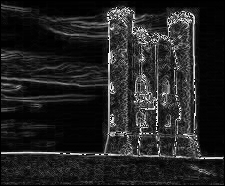
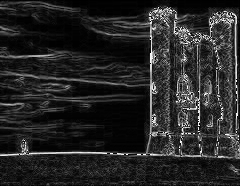
Added more options

diff --git a/src/main.cpp b/src/main.cpp
@@ -15,10 +15,6 @@
 #define STB_IMAGE_IMPLEMENTATION
 #include "../libs/stb_image.h"
 
-// This example can also compile and run with Emscripten! See 'Makefile.emscripten' for details.
-#ifdef __EMSCRIPTEN__
-#include "../libs/emscripten/emscripten_mainloop_stub.h"
-#endif
 #include "seamCarving.h"
 
 
@@ -57,6 +53,29 @@ bool LoadTextureFromFile(const char* filename, GLuint* out_texture, int* out_wid
     *out_texture = image_texture;
     *out_width = image_width;
     *out_height = image_height;
+
+    return true;
+}
+
+bool LoadTexture(const unsigned char* image_data, GLuint* out_texture, int image_width, int image_height) {
+    // Create a OpenGL texture identifier
+    GLuint image_texture;
+    glGenTextures(1, &image_texture);
+    glBindTexture(GL_TEXTURE_2D, image_texture);
+
+    // Setup filtering parameters for display
+    glTexParameteri(GL_TEXTURE_2D, GL_TEXTURE_MIN_FILTER, GL_LINEAR);
+    glTexParameteri(GL_TEXTURE_2D, GL_TEXTURE_MAG_FILTER, GL_LINEAR);
+    glTexParameteri(GL_TEXTURE_2D, GL_TEXTURE_WRAP_S, GL_CLAMP_TO_EDGE); // This is required on WebGL for non power-of-two textures
+    glTexParameteri(GL_TEXTURE_2D, GL_TEXTURE_WRAP_T, GL_CLAMP_TO_EDGE); // Same
+
+    // Upload pixels into texture
+#if defined(GL_UNPACK_ROW_LENGTH) && !defined(__EMSCRIPTEN__)
+    glPixelStorei(GL_UNPACK_ROW_LENGTH, 0);
+#endif
+    glTexImage2D(GL_TEXTURE_2D, 0, GL_RGBA, image_width, image_height, 0, GL_RGBA, GL_UNSIGNED_BYTE, image_data);
+
+    *out_texture = image_texture;
 
     return true;
 }
@@ -107,7 +126,7 @@ int main(int, char**) {
             WINDOW_SIZE_X, 
             WINDOW_SIZE_Y, 
             SDL_WINDOW_OPENGL | 
-            //SDL_WINDOW_RESIZABLE | 
+            SDL_WINDOW_RESIZABLE | 
             SDL_WINDOW_HIDDEN
             );
     if (window == nullptr)
@@ -136,10 +155,11 @@ int main(int, char**) {
     ImGui_ImplOpenGL3_Init(glsl_version);
 
 
-    ImVec4 clear_color = ImVec4(0.45f, 0.55f, 0.60f, 1.00f);
 
     // Main loop
     bool done = false;
+    bool showEnergy = false;
+    bool currentlyShowingEnergy = false;
     int toCarve = 0;
     int currentlyCarved = -1;
     int my_image_width = 0;
@@ -179,26 +199,56 @@ int main(int, char**) {
                 nullptr,
                 ImGuiWindowFlags_NoTitleBar |
                 ImGuiWindowFlags_NoResize |
-                ImGuiWindowFlags_NoMove
-                );
+                ImGuiWindowFlags_NoInputs |
+                ImGuiWindowFlags_NoMove);
         
+        // Apply padding to the image
+        const float padding = 20.0f;
+        ImGui::PushStyleVar(ImGuiStyleVar_WindowPadding, ImVec2(padding, padding));
         ImGui::Image((void*)(intptr_t)my_image_texture, ImVec2(my_image_width, my_image_height));
+        ImGui::PopStyleVar(); 
 
         ImGui::End();
 
         // Config window
         ImGui::SetNextWindowSize({SETTING_WINDOW_SIZE_X, SETTING_WINDOW_SIZE_Y});
         ImGui::Begin("Config");
+
+        // Apply padding to the config elements
+        ImGui::PushStyleVar(ImGuiStyleVar_WindowPadding, ImVec2(padding, padding));
+
+        ImGui::Text("Image Controls");
+        
+        ImGui::Spacing(); 
+        ImGui::Separator();
+        ImGui::Spacing(); 
+
         ImGui::SliderInt("Number of columns to carve", &toCarve, 0, sc.getCarvedWidth() - 1);
-    
-        if (toCarve != currentlyCarved) {
+        ImGui::Spacing(); 
+
+        ImGui::Checkbox("Show energy", &showEnergy);
+        
+        ImGui::Spacing(); 
+
+        ImGui::Checkbox("Use backward seam search", &sc.useBackwardSearch);
+
+        ImGui::PopStyleVar(); 
+        
+
+        if (toCarve != currentlyCarved or showEnergy != currentlyShowingEnergy) {
             sc.carve(toCarve);
-            // sc.saveEnergyToFile("../images/energy.png");
-            sc.saveCarvedImageToFile("../images/out.png");
-            // load Image
-            bool ret = LoadTextureFromFile("../images/out.png", &my_image_texture, &my_image_width, &my_image_height);
-            IM_ASSERT(ret);
+            if (showEnergy) {
+                sc.saveEnergyToFile("../images/energy.png");
+                bool ret = LoadTextureFromFile("../images/energy.png", &my_image_texture, &my_image_width, &my_image_height);
+                IM_ASSERT(ret);
+            }
+            else {
+                sc.saveCarvedImageToFile("../images/out.png");
+                bool ret = LoadTextureFromFile("../images/out.png", &my_image_texture, &my_image_width, &my_image_height);
+                IM_ASSERT(ret);
+            }
             currentlyCarved = toCarve;
+            currentlyShowingEnergy = showEnergy;
             sc = SeamCarving("../images/castle_orig.png");
         }
         ImGui::End();
@@ -206,14 +256,12 @@ int main(int, char**) {
         // Rendering
         ImGui::Render();
         glViewport(0, 0, (int)io.DisplaySize.x, (int)io.DisplaySize.y);
+        ImVec4 clear_color = ImVec4(0.45f, 0.55f, 0.60f, 1.00f);
         glClearColor(clear_color.x * clear_color.w, clear_color.y * clear_color.w, clear_color.z * clear_color.w, clear_color.w);
         glClear(GL_COLOR_BUFFER_BIT);
         ImGui_ImplOpenGL3_RenderDrawData(ImGui::GetDrawData());
         SDL_GL_SwapWindow(window);
     }
-#ifdef __EMSCRIPTEN__
-    EMSCRIPTEN_MAINLOOP_END;
-#endif
 
     // Cleanup
     ImGui_ImplOpenGL3_Shutdown();

diff --git a/src/seamCarving.cpp b/src/seamCarving.cpp
@@ -8,6 +8,7 @@
 using namespace std;
 
 SeamCarving::SeamCarving(const std::string& filename) {
+    useBackwardSearch = false;
     int channels = 4;
     m_data = stbi_load(filename.c_str(), &m_width, &m_height, NULL, channels);
     if (!m_data) {
@@ -30,26 +31,36 @@ int SeamCarving::getCarvedHeight() const {
 void SeamCarving::carve(int num_seams) {
     for (int i = 0; i < num_seams; ++i) {
         auto energy_map = computeEnergy();
-        auto seam = findSeam(energy_map);
-        removeSeam(seam);
+        if (useBackwardSearch) {
+            auto seam = findBackwardSeam(energy_map);
+            removeSeam(seam);
+        }
+        else {
+            auto seam = findForwardSeam(energy_map);
+            removeSeam(seam);
+        }
     }
 }
 
 bool SeamCarving::saveEnergyToFile(const std::string& filename) {
-	auto energy_map = computeEnergy();
+    auto energy_map = computeEnergy();
 
-	unsigned char* energy = (unsigned char*) malloc(m_width*m_height*4*sizeof(unsigned char));
+    size_t dataSize = m_width * m_height * 4;
+    std::vector<unsigned char> energy(dataSize);
 
-	for (int y = 0; y < m_height; ++y)
-	for (int x = 0; x < m_width; ++x){
-        int idx = (y * m_width + x) * 4;
-		energy[idx+0] = energy_map[y][x];
-		energy[idx+1] = energy_map[y][x];
-		energy[idx+2] = energy_map[y][x];
-		energy[idx+3] = m_data[idx+3];
-	}
+    for (int y = 0; y < m_height; ++y) {
+        for (int x = 0; x < m_width; ++x) {
+            int idx = (y * m_width + x) * 4;
+            unsigned char energyValue = energy_map[y][x];
+            
+            energy[idx]     = energyValue;
+            energy[idx + 1] = energyValue;
+            energy[idx + 2] = energyValue;
+            energy[idx + 3] = m_data[idx + 3];
+        }
+    }
 
-    return stbi_write_png(filename.c_str(), m_width, m_height, 4, energy, m_width * 4);
+    return stbi_write_png(filename.c_str(), m_width, m_height, 4, energy.data(), m_width * 4);
 }
 
 vector<vector<double>> SeamCarving::computeEnergy() const {
@@ -87,7 +98,7 @@ vector<vector<double>> SeamCarving::computeEnergy() const {
     return energy;
 }
 
-vector<vector<int>> SeamCarving::findSeam(const vector<vector<double>>& energy) const {
+vector<vector<int>> SeamCarving::findForwardSeam(const vector<vector<double>>& energy) const {
     vector<vector<double>> dp(m_height, vector<double>(m_width, 0.0));
     vector<vector<int>> dp_idx(m_height, vector<int>(m_width, -1));
 
@@ -144,6 +155,10 @@ vector<vector<int>> SeamCarving::findSeam(const vector<vector<double>>& energy) 
     // }
 
     return seam;
+}
+
+vector<vector<int>> SeamCarving::findBackwardSeam(const vector<vector<double>>& energy) const {
+    cerr << "Not implemented" << endl;
 }
 
 void SeamCarving::removeSeam(const std::vector<std::vector<int>>& seam) {

diff --git a/src/seamCarving.h b/src/seamCarving.h
@@ -17,6 +17,8 @@ public:
     int getCarvedWidth() const;
     int getCarvedHeight() const;
 
+    bool useBackwardSearch;
+
     bool saveEnergyToFile(const std::string& filename);
     bool saveCarvedImageToFile(const std::string& filename) const;
 
@@ -28,7 +30,8 @@ private:
 
     // Helper functions for seam carving algorithm
     std::vector<std::vector<double>> computeEnergy() const;
-    std::vector<std::vector<int>> findSeam(const std::vector<std::vector<double>>& energy) const;
+    std::vector<std::vector<int>> findForwardSeam(const std::vector<std::vector<double>>& energy) const;
+    std::vector<std::vector<int>> findBackwardSeam(const std::vector<std::vector<double>>& energy) const;
     void removeSeam(const std::vector<std::vector<int>>& seam);
 };
 
